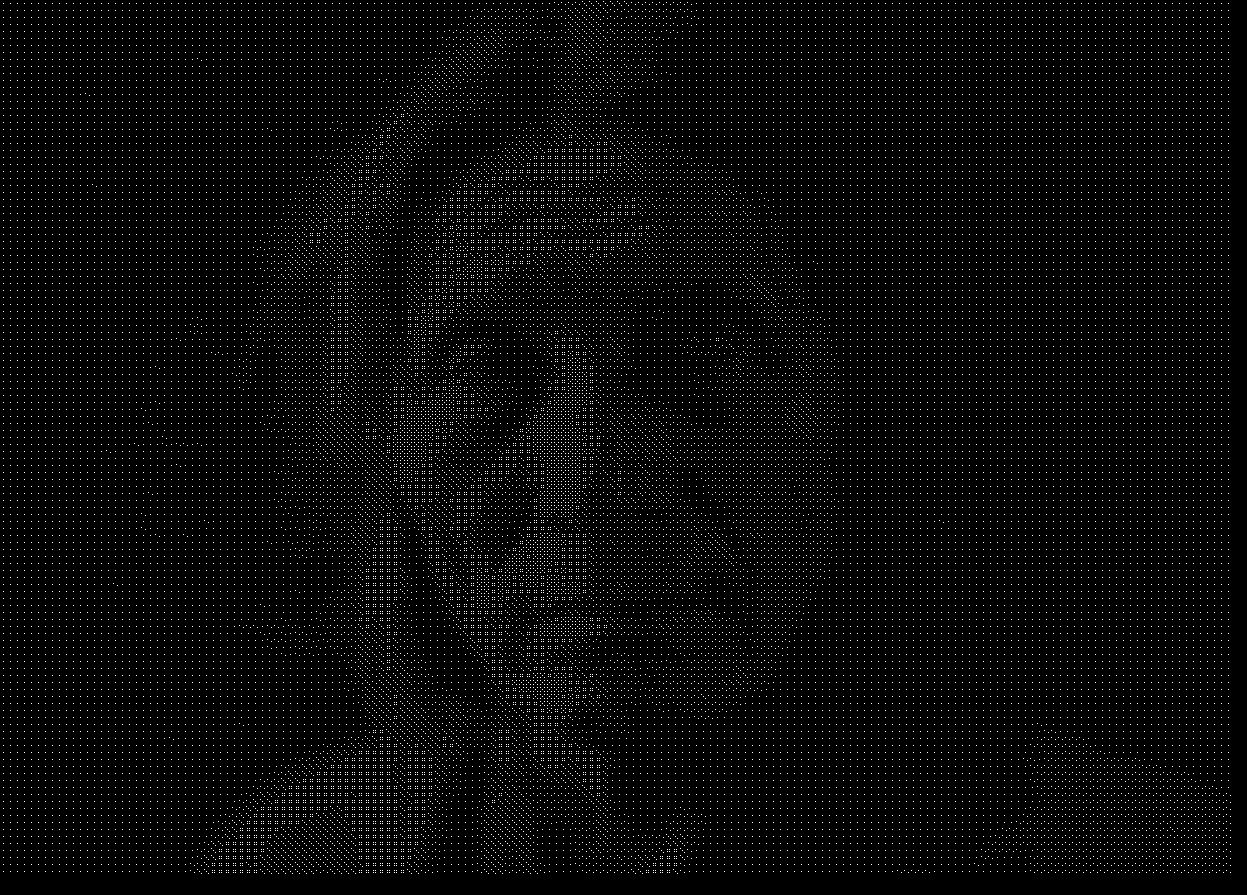
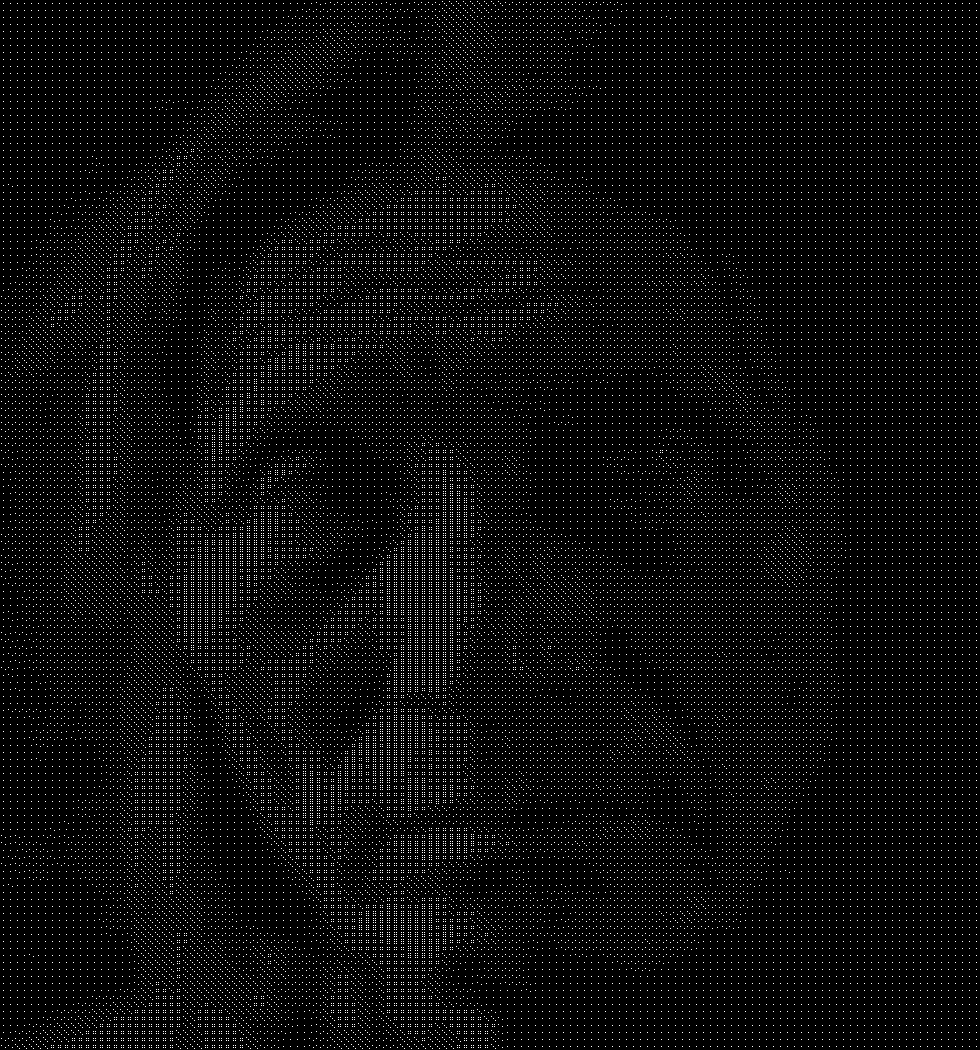
Add working version with width and height options

diff --git a/2dice.py b/2dice.py
@@ -51,8 +51,8 @@ def convert_dice(image):
 	# Transform to dice
  	i = 0
  	j = 0
-	while j < height - 20:
-	 while i < width - 20:
+	while j < height - 0:
+	 while i < width - 0:
 	  # Get saturation
 	  saturation = 0
 	  for k in range(7):
@@ -121,9 +121,17 @@ def main():
 
 		# Load gray image
 		gray = Image.open('/Users/dvcv/Documents/code/2dice/djs.pnggray.png')
+		width, height = gray.size
+		dice_amount = 1000
+		width_dice_amount = 140
+		height_dice_amount = 150
+		print('width_dice_amount:{0}'.format(width_dice_amount))
+		print('height_dice_amount:{0}'.format(height_dice_amount))
+		new_image = gray.resize((width_dice_amount*7, height_dice_amount*7))
+		new_image.save
 
 		# Convert to dice and save
-		new = convert_dice(gray)
+		new = convert_dice(new_image)
 		new.save(path + 'dice' + suffix)
 
 if __name__ == "__main__":
